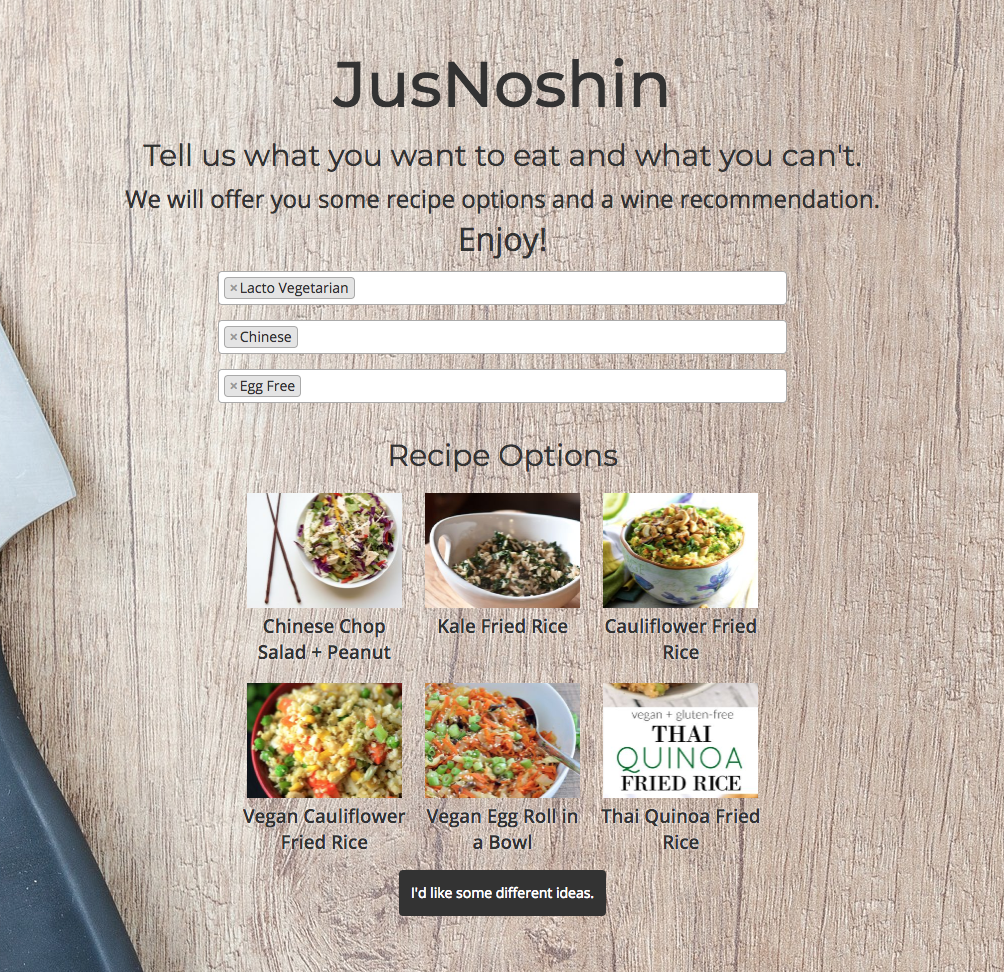
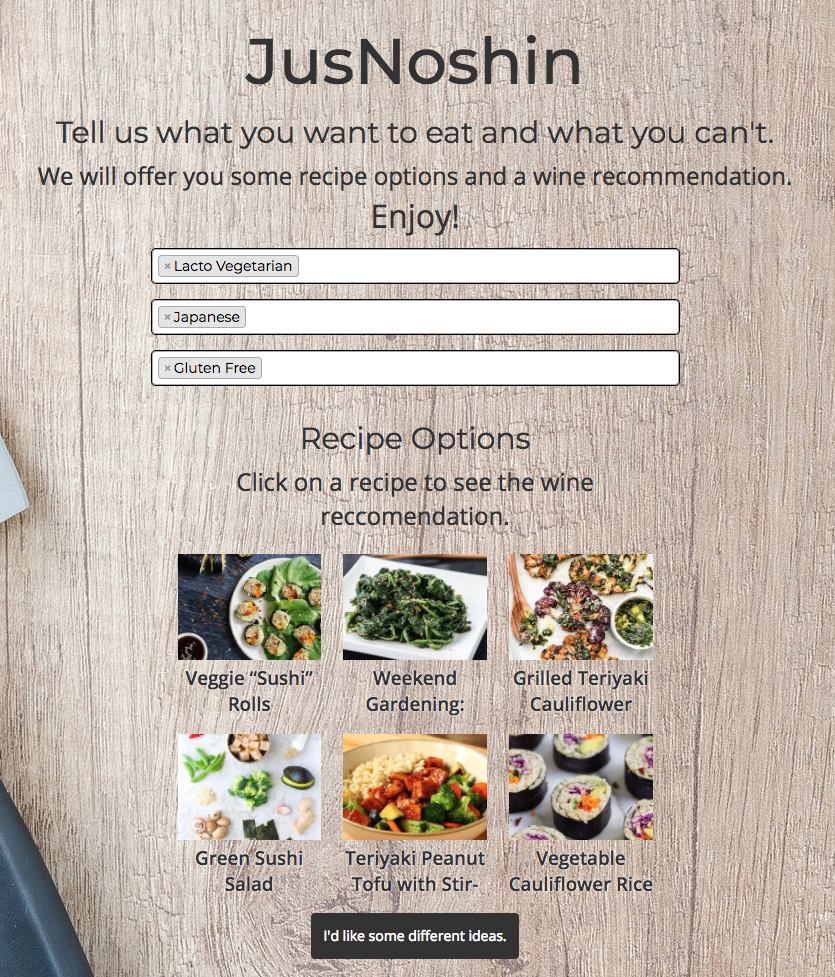
Updated style sheet to maintain consistency. Updated README.md file with more detailed information regarding the application.

diff --git a/js/script.js b/js/script.js
@@ -1,5 +1,5 @@
 $(function () {
-	$("#diet-req, #diet-cui").select2({
+	$("#diet-req, #diet-cui, #excl-ing").select2({
 		"width": "100%"
 	});
 	$(".lisa-select2-tags").select2({
@@ -65,9 +65,13 @@ $(function () {
 								"success": function (r) {
 									$(".wine").append(function () {
 										var wine = r;
-										console.log(r);
+										//if (wine == undefined) {
+											//var defaultWineHTML = '<figure><img src="https://spoonacular.com/productImages/442371-312x231.jpg" alt="Chehalem INOX Chardonnay" /><figcaption><a href="https://click.linksynergy.com/deeplink?id=*QCiIS6t4gA&mid=2025&murl=https%3A%2F%2Fwww.wine.com%2Fproduct%2Fchehalem-inox-chardonnay-2009%2F109305">'"INOX® takes its name from the abbreviation of the French word for stainless steel, inoxydable. The wine was created differently from most Chardonnay you've had. We think we've succeeded in expressing the crisp, steely, and fruit-rich side that we love about some Old-World Chardonnays. What makes this possible is the use of exclusively Dijon clones, exceptionally well suited to Oregon's cool climate and exhibiting a richness that does not depend on oak. INOX screams of the hallmarks of a cool climate-brightness, pinpoint fruit, and explosive aromas and flavors. We intend INOX for a full range of use, from hot weather chilling to elegant dinner complements.Quintessential INOX, with lovely white aromas of gardenia and other flowers, peach, apricot, pear, pineapple, and green apple candy showing on the nose and palate; it shows a great balance with relatively low alcohol for the year and bright acid; the length is lovely and the weight rich, with a supple, silky texture; flavors linger, with cherry and peach accents. Very pleased."'</a></figcaption></figure>';
+											//return wineHTML;
+										//} else {
 										var wineHTML = '<figure><img src="' + wine.productMatches[0].imageUrl + '" alt="' + wine.productMatches[0].title + '" /><figcaption><a href="' + wine.productMatches[0].link + '">' + wine.productMatches[0].description + '</a></figcaption></figure>';
 										return wineHTML;
+										//}
 									});
 								}
 							});

diff --git a/css/style.css b/css/style.css
@@ -36,6 +36,9 @@ h2, h3, h4, h5, h6, .h1, .h2, .h3, .h4, .h5, .h6 {
 #intro form label {
 	display: none;
 }
+#diet-req {
+  background-color: transparent;
+}
 .results .recipe .wine {
   text-align: center;
 }
@@ -75,7 +78,9 @@ ul {
   display: block;
 }
 .results li:hover {
-  background-color: #5a4;
+  background-color: #fff;
+  border: 1px solid black;
+  box-shadow: 5px 5px 5px #333;
 }
 .btn {
   background-color: #333;
@@ -84,6 +89,7 @@ ul {
 }
 .btn:hover {
   background-color: #5a4;
+  box-shadow: 5px 5px 5px #333;
 }
 .btn:focus {
   background-color: #333;
@@ -101,10 +107,42 @@ figcaption a {
   margin-top: 50px;
 }
 figcaption a:hover {
-  color: #2c5624;
+  color: #5a4;
 }
-#recView {
-  margin: 0 auto;
+#recView figure {
+  padding: 15px;
+}
+#recView figure:hover {
+  background-color: #fff;
+  box-shadow: 5px 5px 5px #333;
+  border: 1px solid black;
+  border-radius: 5px;
+}
+.select2 {
+  border: 1px solid black;
+  border-radius: 5px;
+  background-color: hsla(360, 100%, 100%, 0);
+  color: black;
+  font-family: 'Montserrat';
+  font-size: 14px;
+  font-color: black;
+}
+.select2-search__field {
+  background-color: transparent;
+  color: black;
+  font-family: 'Montserrat';
+}
+.select2-search__field::-webkit-input-placeholder {
+  color: black;
+  background-color: hsla(360, 100%, 100%, 0);
+  font-family: 'Montserrat';
+}
+.select2-container--default .select2-selection--multiple .select2-selection__choice__remove {
+  color: black;
+}
+.select2-container--default .select2-selection--multiple .select2-selection__choice {
+  font-size: 14pt;
+  font-weight: bold;
 }
 @media screen and (max-width: 500px) {
   h2, p {

diff --git a/index.html b/index.html
@@ -107,6 +107,7 @@
 				<div class="row">
 					<div class="col-md-6 col-sm-12 col-md-offset-3 text-center">
 						<h2>Recipe Options</h2>
+						<p>Click on a recipe to see the wine reccomendation.</p>
 						<ul class="results">
 						</ul>
 					</div>
@@ -123,13 +124,13 @@
 				<div class="row">
 					<div class="col-md-6 col-sm-12 text-center">
 						<h2>Recipe Selection</h2>
-						<p>This recipe looks delicious!</p>
+						<p>Click to be taken to the full recipe.</p>
 						<ul class="recipe">
 						</ul>
 					</div>
 					<div class="col-md-6 col-sm-12 text-center">
 						<h2>Wine Pairings</h2>
-						<p>We think this a tasty choice.</p>
+						<p>Click to learn more about this reccomendation and to purchase.</p>
 						<ul class="wine">
 						</ul>
 					</div>

diff --git a/README.md b/README.md
@@ -6,6 +6,8 @@
 
 A live version of the application can be found at: https://reinhal.github.io/jusnoshin/
 
+**Current live version:** 1.0
+
 ![JusNoshinHome](/Users/lisa/Desktop/Projects/JusNoshin/JusNoshinHome.png)
 
 ## Requirements
@@ -34,6 +36,13 @@ User may start over at any time by clicking the button.
 
 ## Planned Features
 
+- Allow the user to scroll through all the recipe results.
+- Display the complete recipe selected.
+- Give users the options to search for either recipes or nearby restaurants.
+- Give users the ability to scroll through all the wine results.
+- Based on current location, display nearby venues.
+- Display the nutrition information of a selected meal for either a recipe or a menu selection.
+
 ## Technology Used
 
 - HTML
@@ -42,4 +51,15 @@ User may start over at any time by clicking the button.
 
 ## Credits
 
-LISA! :smile:
+Spoonacular Food API
+
+https://spoonacular.com/food-api
+
+## Author
+
+**Lisa Reinhardt**
+
+## Acknowledments
+
+**Praveen Kumar Purushothaman** — The incredible mentor.
+
